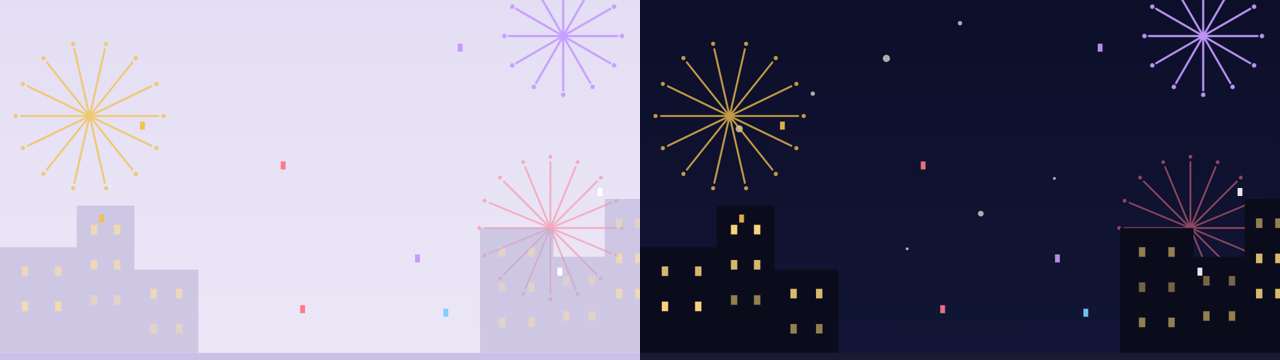
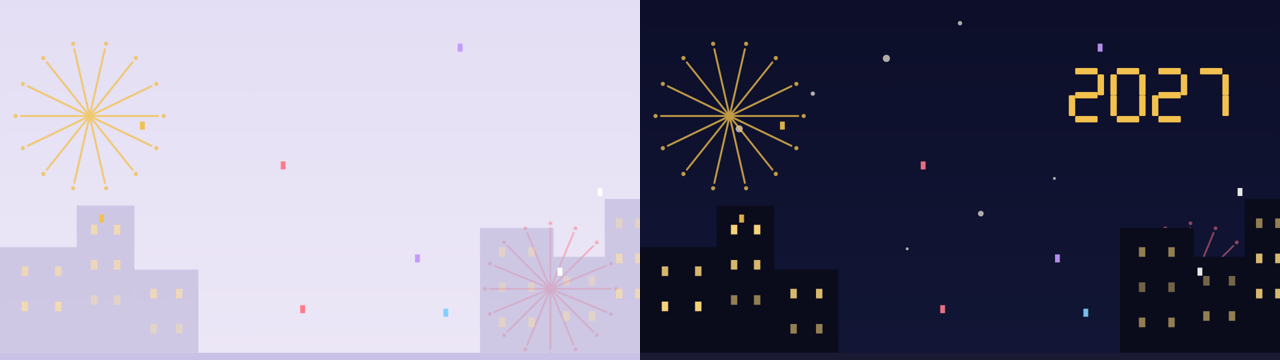
new-year-theme: the year 2027 in gold at night, drawn in plain shapes
Claude-Session: https://claude.ai/code/session_019US2gsjfkmf3Eo2ufavub8

diff --git a/plugins/new-year-theme/hooks/register.tsx b/plugins/new-year-theme/hooks/register.tsx
@@ -41,6 +41,38 @@ const { theme, problems } = makeColors({
 // at the left and right edges of the band, where the words are not. A phone shows all of it.
 const G = 508
 
+// The year, "2027", drawn as seven-segment digits from plain rectangles, since a theme can't use a font. Each digit is
+// `w` wide and `h` tall, with segments `t` thick; the segments are named a (top), b and c (right), d (bottom),
+// e and f (left) and g (middle).
+const SEGMENTS: Record<string, string> = { '0': 'abcdef', '2': 'abged', '7': 'abc' }
+
+const digit = (x: number, y: number, w: number, h: number, t: number, value: string): string => {
+  const parts: Record<string, [number, number, number, number]> = {
+    a: [x + t, y, w - 2 * t, t],
+    d: [x + t, y + h - t, w - 2 * t, t],
+    g: [x + t, y + h / 2 - t / 2, w - 2 * t, t],
+    f: [x, y + t, t, h / 2 - t],
+    b: [x + w - t, y + t, t, h / 2 - t],
+    e: [x, y + h / 2, t, h / 2 - t],
+    c: [x + w - t, y + h / 2, t, h / 2 - t],
+  }
+
+  return [...(SEGMENTS[value] ?? '')]
+    .map(seg => {
+      const [rx, ry, rw, rh] = parts[seg] ?? [0, 0, 0, 0]
+
+      return `<rect x="${rx}" y="${ry}" width="${rw}" height="${rh}" rx="0.6" fill="#f2c14e"/>`
+    })
+    .join('')
+}
+
+const YEAR_2027 = [
+  digit(268, 330, 22, 34, 4, '2'),
+  digit(294, 330, 22, 34, 4, '0'),
+  digit(320, 330, 22, 34, 4, '2'),
+  digit(346, 330, 22, 34, 4, '7'),
+].join('')
+
 const BURST_COLOURS = ['#f2c14e', '#ff7a8a', '#7fd1ff', '#c59bff', '#ffffff']
 
 // One firework: a ring of rays and a few sparks, drawn around (0, 0) and placed by the caller. It fades slowly in and
@@ -126,9 +158,10 @@ const SCENE = [
     '</g>',
   // Fireworks at the left and the right edge, in the visible band; a smaller one higher up on each side.
   burst(56, 360, 46, BURST_COLOURS[0] ?? '#f2c14e', 0, 14),
-  burst(344, 430, 50, BURST_COLOURS[1] ?? '#ff7a8a', -3.5, 16),
+  burst(344, 468, 46, BURST_COLOURS[1] ?? '#ff7a8a', -3.5, 16),
   burst(48, 548, 30, BURST_COLOURS[2] ?? '#7fd1ff', -5, 12),
-  burst(352, 310, 34, BURST_COLOURS[3] ?? '#c59bff', -1.8, 12),
+  // The year, at the right edge of the band, only at night.
+  `<g class="night">${YEAR_2027}</g>`,
   `<g class="day" opacity=".55">${SKYLINE.replace(/fill="#0a0c1c"/g, 'fill="#b7b0d6"')}</g>`,
   `<g class="night">${SKYLINE}</g>`,
   `<rect x="0" y="${G}" width="400" height="95" fill="#1a1a33" class="night"/>`,

diff --git a/README.es.md b/README.es.md
@@ -79,7 +79,7 @@ Mods bonitas para Claude Code: cambian cómo se ve y qué muestra. Un aspecto na
 
 | Mod | Qué hace |
 |---|---|
-| `new-year-theme` | Fuegos artificiales que estallan en los bordes izquierdo y derecho, sobre una ciudad con ventanas encendidas, y confeti que cae despacio. Sigue tu modo claro u oscuro: un día lavanda claro, o una noche azul medianoche. Los fuegos aparecen y se desvanecen despacio, y los paneles detrás del texto son de cristal esmerilado. A medianoche de Nochevieja, una notificación dice Feliz Año Nuevo. Se envía a la app de escritorio, cuando hay una sesión abierta en tu ordenador, y suena con el sonido que tu sistema usa para sus notificaciones; la mod no puede elegir ese sonido. El móvil no está probado: hasta ahora no se ha visto ningún tema en un móvil. |
+| `new-year-theme` | Fuegos artificiales que estallan en los bordes izquierdo y derecho, sobre una ciudad con ventanas encendidas, el año 2027 en dorado de noche, y confeti que cae despacio. Sigue tu modo claro u oscuro: un día lavanda claro, o una noche azul medianoche. Los fuegos aparecen y se desvanecen despacio, y los paneles detrás del texto son de cristal esmerilado. A medianoche de Nochevieja, una notificación dice Feliz Año Nuevo. Se envía a la app de escritorio, cuando hay una sesión abierta en tu ordenador, y suena con el sonido que tu sistema usa para sus notificaciones; la mod no puede elegir ese sonido. El móvil no está probado: hasta ahora no se ha visto ningún tema en un móvil. |
 
 ### Música
 

diff --git a/README.md b/README.md
@@ -79,7 +79,7 @@ Pretty mods for Claude Code: changes to how it looks and what it shows. A Christ
 
 | Mod | What it does |
 |---|---|
-| `new-year-theme` | Fireworks bursting at the left and right edges over a city skyline with lit windows, and slow confetti. It follows your light or dark mode: a pale lavender day, or a midnight-blue night. The fireworks fade in and out slowly, and the panels behind the text are frosted glass. At midnight on New Year's Eve, a notification says Happy New Year. It is sent to the desktop app, when a session is open on your computer, and it makes the sound your system uses for its notifications; the mod cannot choose that sound. The phone is not tested: no theme has shown on a phone so far. |
+| `new-year-theme` | Fireworks bursting at the left and right edges over a city skyline with lit windows, the year 2027 in gold at night, and slow confetti. It follows your light or dark mode: a pale lavender day, or a midnight-blue night. The fireworks fade in and out slowly, and the panels behind the text are frosted glass. At midnight on New Year's Eve, a notification says Happy New Year. It is sent to the desktop app, when a session is open on your computer, and it makes the sound your system uses for its notifications; the mod cannot choose that sound. The phone is not tested: no theme has shown on a phone so far. |
 
 ### Music
 
